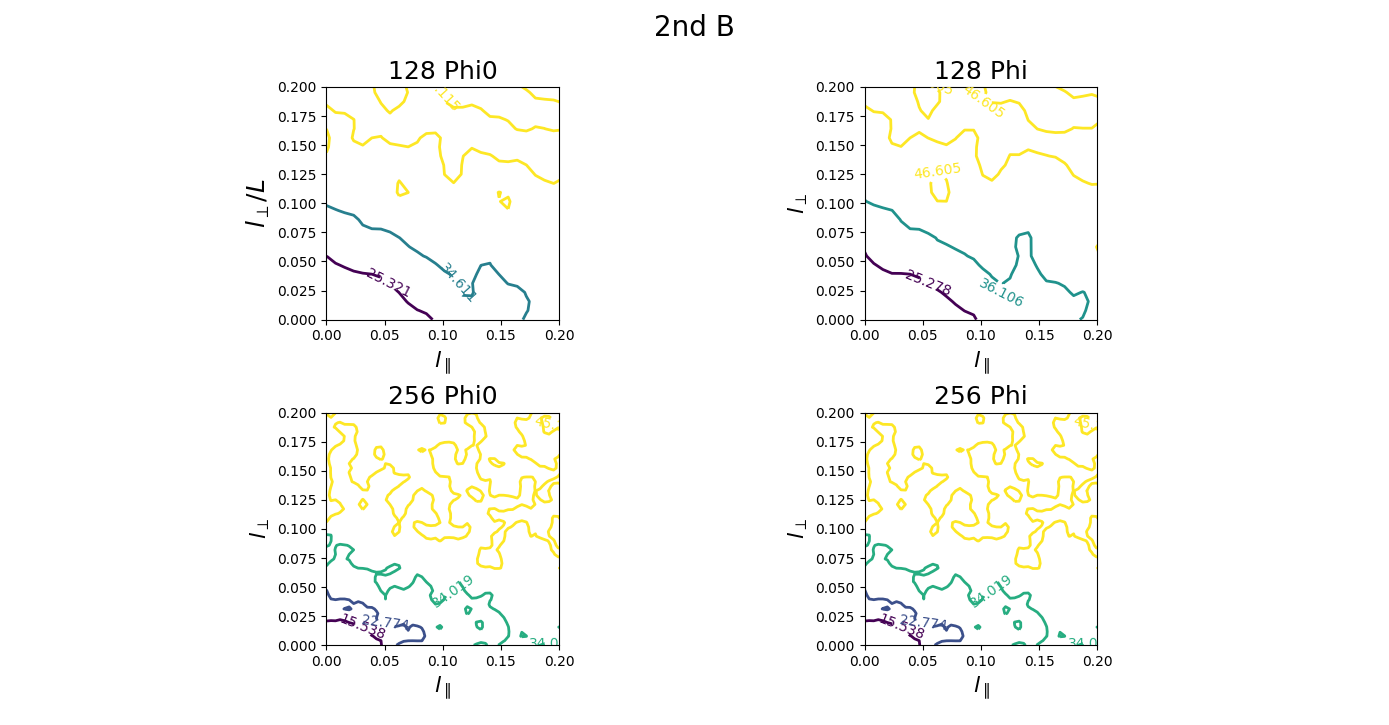
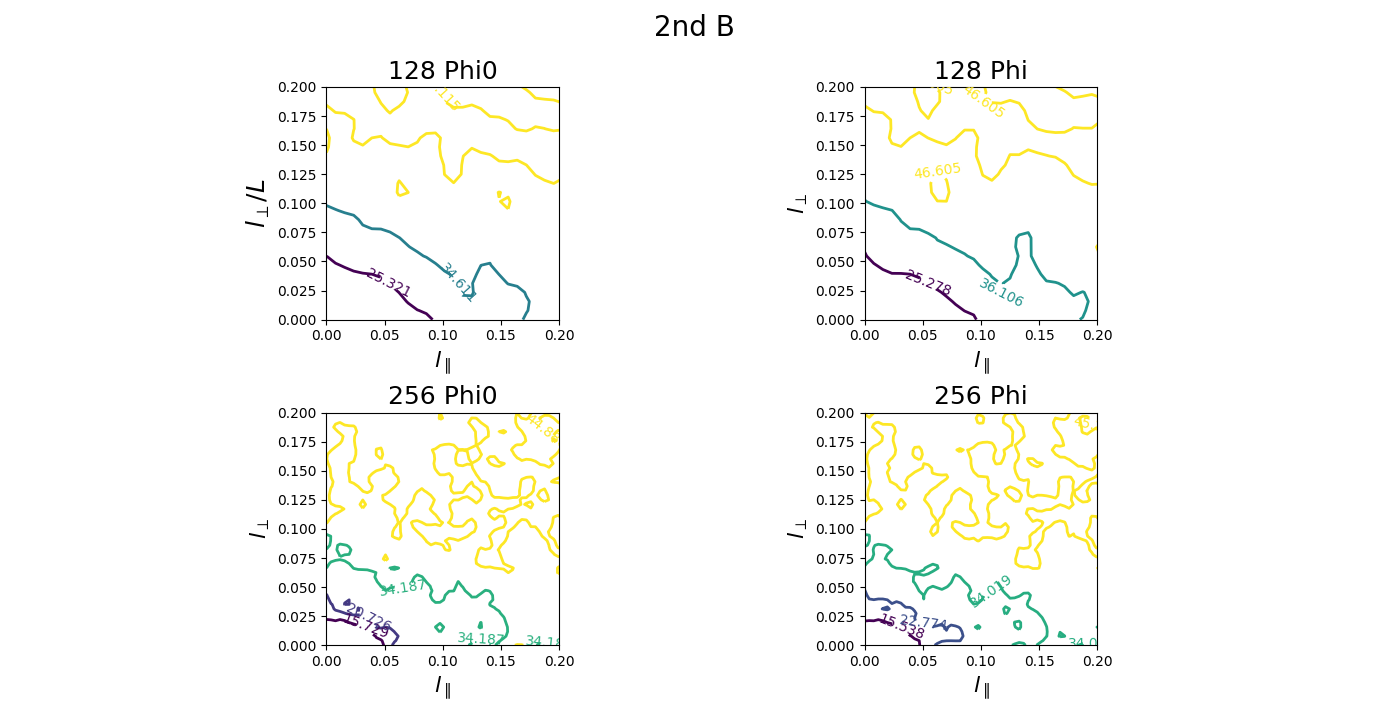
update - meeting - experiment with k_perp = 0 cond

Changed region(s): [[0.2167, 0.5766, 0.4024, 0.9103]]

diff --git a/Code_Analysis/plot_sf.py b/Code_Analysis/plot_sf.py
@@ -619,9 +619,9 @@ ax1.plot(lperp24[:count_128_3d_phi0_global_test_2], lpar24[:count_128_3d_phi0_gl
 
 #ax1.plot(lperp22[:count_512_3d_phi0_local], lpar22[:count_512_3d_phi0_local], lw=2, ls = "--",color='orange', label="512 Phi0 local grad: %s R^2: %s  Err: %s" % (slope_512_disp_3d_phi0_local, rval_512_disp_3d_phi0_local, err_512_disp_3d_phi0_local))
 
-#ax1.plot(lperp14[:count_256_3d_f], ref_slope_3d_256_f, lw=4, color = "black", ls = "-", label="GS95 2/3")
+ax1.plot(lperp14[:count_256_3d_f], ref_slope_3d_256_f, lw=2.5, color = "black", ls = "-", label="GS95 2/3")
 #ax1.plot(lperp22[:count_512_3d_phi0], 1.5*ref_slope_3d_512_f, lw=2.5, color = "black", ls = "-", label="GS95 2/3")
-#ax1.plot(lperp15[:count_128_3d_f], ref_slope_3d_128_f, lw=4, color = "black", ls = "-")
+#ax1.plot(lperp15[:count_128_3d_f], ref_slope_3d_128_f, lw=2.5, color = "black", ls = "-")
 
 
 ax1.set_xscale('log')

diff --git a/Code_Analysis/2D alt struc funk/plot_sf2D_A.py b/Code_Analysis/2D alt struc funk/plot_sf2D_A.py
@@ -43,7 +43,7 @@ lperp2 = 1.0*np.arange(lent/4)/lent
 sf2D2 = smoothing(sf2D_array)
 
 #sf2D_array = np.load(working_dir_path + 'final_data/3d/256run3D_FFT/sf2D_phi0.npy')
-sf2D_array = np.load(working_dir_path + '3d_disp_mem/Runs/256_2nd_B/sf2D_phi.npy')
+sf2D_array = np.load(working_dir_path + '3d_disp_mem/Runs/256_2nd_B/sf2D_phi0.npy')
 lent=256
 lpar3 = 1.0*np.arange(lent/4)/lent
 lperp3 = 1.0*np.arange(lent/4)/lent
